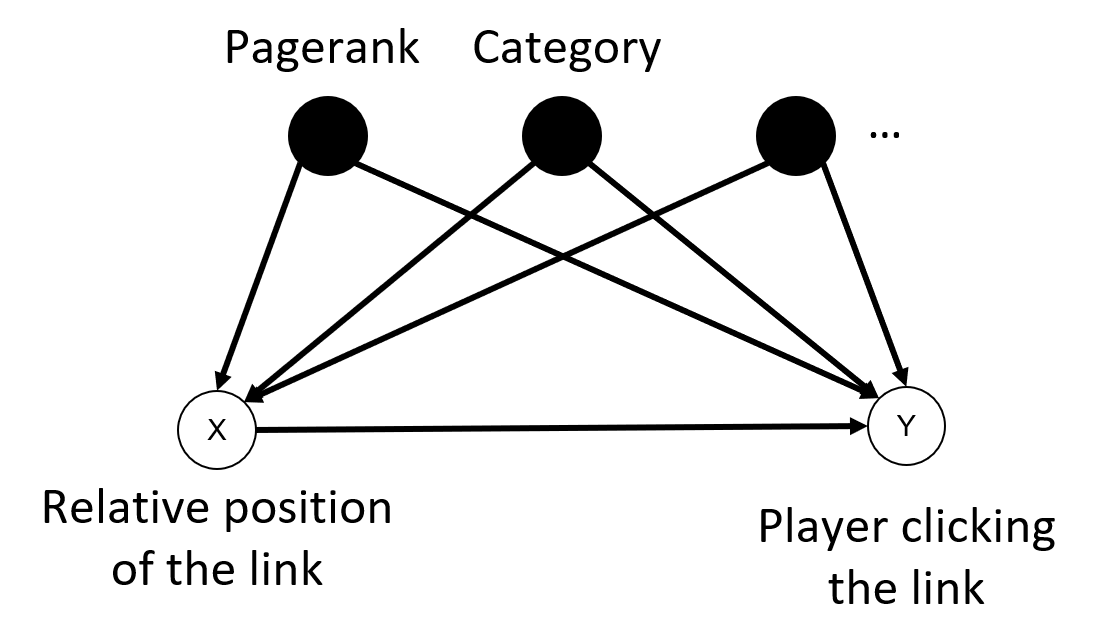
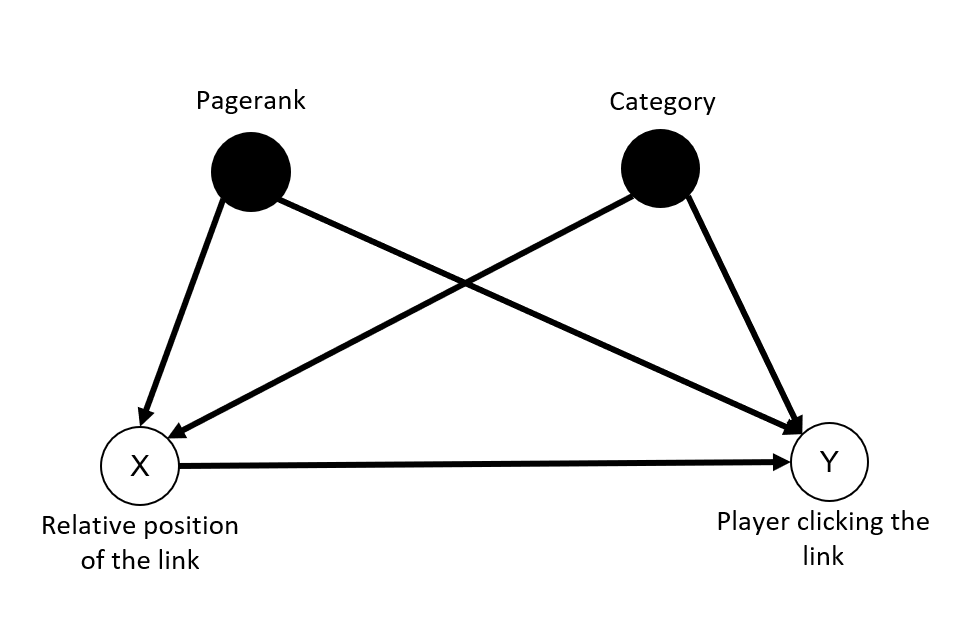
deliverablitiables

diff --git a/docs/index_2.html b/docs/index_2.html
@@ -17,12 +17,9 @@
 		<header id="header">
 			<h1>deadmaus</h1>
 			<nav>
-				<ul>
+				<!-- <ul>
 					<li><a href="#intro">Intro</a></li>
-					<li><a href="#one">Wikipedia</a></li>
-					<li><a href="#two">Wikispeedia</a></li>
-					<li><a href="#EDA">Exploratory Data Analysis</a></li>
-				</ul>
+				</ul> -->
 			</nav>
 		</header>
 
@@ -67,13 +64,16 @@
 				<header>
 					<h3>So we're done! ... right?</h3>
 					<p>
-						Unfortunately, no. There are many confounding factors that can affect the probability of a player clicking a link, and we need to account for them in order to isolate the effect of link position. In the previous page, we identified <strong>Pagerank</strong> and <strong>Category</strong> as two factors that greatly affect the link structure of Wikispeedia, but on top of these, there are many other confounding factors, like human intuition, that we cannot manually account for.
+						Unfortunately, no. We need to carefully choose a <strong>control group</strong> in order to isolate the effect of link position. Luckily, we do have a predictor for semantic similarity: <strong>Graph embeddings</strong>! Given a page and a target destination, we can use <strong>cosine similarity</strong> to calculate the page that is closest to the target destination in the embedding space. This gives us our control group.
 					</p>
-					<embed src="images/causal_diagram.png" width = 500 height = 300>
+					<embed src="images/causal_diagram.png" width = 532 height = 378>
 					<p>
-						We need to carefully choose a <strong>control</strong> in order to account for these confounders. Luckily, we do have a predictor for semantic similarity: <strong>Graph embeddings</strong>! Given a page and a target destination, we can use <strong>cosine similarity</strong> to calculate the page that is closest to the target destination in the embedding space. This link serves as a proxy for human intuition and other hidden confounders, and is suitable as a control pair for our observational experiment. 
+						There are confounding factors that can affect the probability of a player clicking a link, and we need to account for them in order to isolate the effect of link position. In the previous page, we identified <strong>Pagerank</strong> and <strong>Category</strong> as two factors that greatly affect the link structure of Wikispeedia.
+						<br><br>
+						We can attenuate their effects by calculating a <strong>propensity score</strong> for each page, which is the probability that a a player will click on the page given the values of the confounding factors. Afterwards, we can match each link clicked to the link in the control group with the closest propensity score. This greatly increases the power of our statistical analysis.
+						 
 					</p>
-					
+					<embed src="images/causal_diagram_propensity.png" width = 485 height = 349>
 				</header>
 				<header>
 					<h2>Let's put it to the test!</h2>
@@ -83,74 +83,7 @@
 				</header>
 			</div>
 		</section>
-
-		<!-- <section id="" class="main style3 primary">
-			<div class="content">
-				<header>
-					<h2></h2>
-					<p></p>
-					<embed src="plots\" width = 750 height = 437>
-				</header>
-			</div>
-		</section> -->
-
-		<!-- Graphs -->
-		<!-- <section id="Graphs" class="main style3 primary">
-			<div class="content">
-				<header>
-					<h2>Graphs</h2>
-					<p>Here are some graphs. Graphs graphs graphs. I love graphs. Click on a graph for explanations.</p>
-				</header> -->
-				
-
-				<!-- Gallery  -->
-					<!-- <div class="gallery">
-						<article class="from-left">
-							<a href="images/fulls/01.jpg" class="image fit"><img src="images/fulls/01.jpg" title="Distribution of the sum of each path's page ranks" alt="" /></a>
-						</article>
-						<article class="from-right">
-							<a href="images/fulls/02.jpg" class="image fit"><img src="images/fulls/02.jpg" title="Distribution of the sum of each path's page ranks but idk the difference" alt="" /></a>
-						</article>
-						<article class="from-left">
-							<a href="images/2009_category.png" class="image fit"><img src="images/2009_category.png" title="Articles by category in 2009" alt="" /></a>
-						</article>
-						<article class="from-right">
-							<a href="images/2022_category.png" class="image fit"><img src="images/2022_category.png" title="Articles by category in 2022" alt="" /></a>
-						</article>
-						<article class="from-left">
-							<a href="images/wikispeedia_category.png" class="image fit"><img src="images/wikispeedia_category.png" title="Articles by category in Wikispeedia" alt="" /></a>
-						</article>
-						<article class="from-right">
-							<a href="images/wikispeedia_hits.png" class="image fit"><img src="images/wikispeedia_hits.png" title="ahahhahah" alt="" /></a>
-						</article>
-					</div> -->
-
-			</div>
-		</section>
-
-
-		<!-- Contact -->
-			<!-- <section id="contact" class="main style3 secondary">
-				<div class="content">
-					<header>
-						<h2>Say Hello.</h2>
-						<p>Lorem ipsum dolor sit amet et sapien sed elementum egestas dolore condimentum.</p>
-					</header>
-					<div class="box">
-						<form method="post" action="#">
-							<div class="fields">
-								<div class="field half"><input type="text" name="name" placeholder="Name" /></div>
-								<div class="field half"><input type="email" name="email" placeholder="Email" /></div>
-								<div class="field"><textarea name="message" placeholder="Message" rows="6"></textarea></div>
-							</div>
-							<ul class="actions special">
-								<li><input type="submit" value="Send Message" /></li>
-							</ul>
-						</form>
-					</div>
-				</div>
-			</section> -->
-
+		
 		<!-- Footer -->
 			<footer id="footer">
 

diff --git a/docs/index.html b/docs/index.html
@@ -131,7 +131,7 @@
 					</header>
 				</article>
 				<article class="from-right">
-					<embed src="plots/gifs/category_heatmap.gif" width="120%" height="100%">
+					<embed src="plots/gifs/category_heatmap.gif" width="130%" height="100%">
 				</article>				
 			</div>
 		</section>
@@ -220,7 +220,7 @@
 					<header>
 						<h3>Pagerank</h3>
 						<p>
-							We also noticed that in 2020, the page <i>David Heymann</i> exploded in Pagerank, with a 65% increase in percentile in one year. This can be attributed to the COVID-19 pandemic, as he was the director of the WHO's Health Emergencies Programme. This represents a real increase in the importance of his page. TODO: NOT TRUE BUT OKAY
+							We also noticed that in 2020, the page <i>David Heymann</i> exploded in Pagerank, with a 65% increase in percentile in one year. This can be attributed to the COVID-19 pandemic, as he was the director of the WHO's Health Emergencies Programme. This represents a real increase in the importance of his page. NOTE: THIS IS NOT TRUE 100% FAKE NEWS
 						</p>
 					</header>
 				</article>

diff --git a/README.md b/README.md
@@ -1,21 +1,19 @@
 # Wikipedia Link Structure - Is it Developed in An Intuitive Way?
 
 ## Abstract
-The purpose of this data analysis is to investigate the link structure of Wikipedia and analyse if and how well it corresponds to human intuition. From there, we are going to explore if Wikipedia, when developing the content of their pages, take this into consideration. This will be done in two parts. (1) Comparing the graph of the link structure of Wikipedia 2009 to a graph of how humans navigate the link structure of Wikipedia. The second graph is constructed from recorded games of Wikispeedia, a game where the task is to navigate from one page to another using only the links on each page respectively. (2) In the second part we compare the first graph from part one to a graph constructed of the same Wikipedia pages from 2022. Thus, we can compare the development of the pages over time. Depending on the answer to part 1, we will analyse if the link structure has improved or decayed in relation to how humans navigate Wikipedia. The dataset represents a subset of all wikipedia pages. For both time periods the same subset of Wikipedia pages will be analysed.
+The purpose of this data analysis is to investigate the link structure of Wikipedia and analyse if and how well it corresponds to human intuition. From there, we are going to explore if Wikipedia, when developing the content of their pages, take this into consideration. This will be done in two parts. (1) Comparing the graph of the link structure of Wikipedia 2007 to a graph of how humans navigate the link structure of Wikipedia. The second graph is constructed from recorded games of Wikispeedia, a game where the task is to navigate from one page to another using only the links on each page respectively. (2) In the second part we compare the first graph from part one to a graph constructed of the same Wikipedia pages from 2022. Thus, we can compare the development of the pages over time. Depending on the answer to part 1, we will analyse if the link structure has improved or decayed in relation to how humans navigate Wikipedia. The dataset represents a subset of all wikipedia pages. For both time periods the same subset of Wikipedia pages will be analysed.
 
 ## Research Questions
-1. How well did the link structure of Wikipedia follow human intuition in 2009?
-1. How has the Wikipedia link structure evolved between 2009 and 2022?
-1. Does link position effect the chances a player clicks on it?
+1. How has the Wikipedia link structure evolved between 2007 and 2022?
+1. Are players biased towards links higher up on the page?
 
 ## Additional datasets
-In addition to the Wikispeedia dataset, we have scraped the same subset of pages of Wikipedia (from 2009 - 2022) as are present in the wikispeedia dataset.
+In addition to the Wikispeedia dataset, we have scraped the same subset of pages of Wikipedia (from 2007 - 2022) as are present in the wikispeedia dataset.
 
 Processing the new version of the circa 4600 pages included:
 * Scraping the complete content of the pages with html tags
 * Indetifying outgoing links of each page and creating a dataset with an origin column (representing the page of which the links are extracted) and a destination column (representing the links found on that page)
-* Data size is expected to be of the same order of magnetude as the 2009 dataset, which was ~3 MB, if we choose to only work with the links
-
+* Data size is expected to be of the same order of magnetude as the 2007 dataset, which was ~3 MB, if we choose to only work with the links
 
 ## Methods
 To acomplish these goals, we intend to use the methods described below.
@@ -26,36 +24,28 @@ Node2Vec is used to embed the nodes of the graph as vectors. With these embeddin
 **UMAP**
 Uniform Manifold Approximation and Projection (UMAP) we are able to take the high-dimensional embeddings generated by node2vec and project them into 3D. Given these projections a qualitive comparison can be made between graphs according to for example what categories cluster together on the local/global scale. 
 
-<img src="images/2009_category.png" width="400"> <img src="images/2022_category.png" width="400"> <img src="images/wikispeedia_category.png" width="400">
+<img src="images/2007_category.png" width="400"> <img src="images/2022_category.png" width="400"> <img src="images/wikispeedia_category.png" width="400">
 
 3D versions can be found in our <a href="https://epfl-ada.github.io/ada-2022-project-deadmaus/#What%20does%20our%20data%20look%20like?">data story</a>.
 
+**How to characterise the evolution of Wikipedia's link structure**
+We characterised Wikipedia primarily throught two perspectives: Pagerank and Categories.
+
+A heatmap where the categories are represented on both the X and Y axis was created. In the intersection of the table of category A and category B, we find the number of outgoing links from A to B. Similarly, in the intersection of B and A, we find the number of outgoing links from category B to A. The argument favouring the former approach is the intuition of relevance. If category A is relevant to category B then category B should be equally relevant to category A.
+<img src="docs/plots/gifs/category_heatmap.gif">
+
+The pagerank of each page in Wikipedia 2007 - 2022 was calculated. They were then compared to the pagerank of the graph generated by the Wikispeedia paths.
+<img src="docs/plots/gifs/page_rank_ridge.gif">
+
+
 **How to determine the whether link position effects the player clicking on the link**
 We propose the following causal diagram:
-<img src="images/causal_diagram.png" width="400">
+<img src="docs/images/causal_diagram_propensity.png">
+We can control for the effects of Pagerank and Category by using a propensity score. We selected a total of 16 confounders: Pagerank, and a binary (0 or 1) value for each of the 15 categories. We then used logistic regression to obtain a propensity score for every page. 
 
-We propose a two step methodology to answer the RQs and determine relevance of the links. The first step is to find the centroid of each category in their 128 dimensional embedding space. We then measure the cosine similarity between the centroids. From this we will receive an appreciation for the similarity between the different categories. We hypothesize that subjects with a higher similarity score are more relevant to each other than two that are distant. An alternative approach to measuring the distance between the centroids is to use a heatmap where the categories are represented on both the X and Y axis. In the intersection of the table of category A and category B, we find the number of outgoing links from A to B. Similarly, in the intersection of B and A, we find the number of outgoing links from category B to A. The argument favouring the former approach is the intuition of relevance. If category A is relevnant to category B then category B should be equally relevant to category A.
+However, confounders like human intuition is harder to manually control for. Hence, we will use data from the graph embeddings to do matching. For every (page, destination) pair, we calculate which link on that page has the highest cosine similarity to the destination page. That link will be used as a control pair to the link that the player actually clicked on. This underlying embeding sources from  Wikipdia editors in 2007, which will control for human intuition of that time and other unknown confounding factors. 
 
-The second step is to observe the link structure over the two periods and evaluate wether or not it has chagned. In order to do that we construct bipartite graphs where on one side all the articles are listed and on the other side the 16 categories are listed. Edges are drawn between each article and each category with weights representing the number of outgoing links from the article to each category. One such bipartite graph will be constructed for each period (2009 and 2022). When observing differences and similarities of the two graphs we will be able to interpret how changes have occurred over time. One scenario could be that an article `A` had in 2009 an edge weight 10 to category 1:10. In 2022 the edge weights have changed to 0 for category 1:5 while increasing their values to 15 for categories 6:10. Seeing this, we can observe how the categories are related to each other through comparing their similarity scores. Hopefully what we will find is that more links have been added to relevant categories and links have been deleted to irrelevant categories. 
-
-
-## Proposed timeline
-A high level timeline follows below. 
-
-**End of week 49**
-Detailed investigation of the data
-- All fundamental statistics and visualisations are developed.
-- At this point, the investigation is at a point where we understand what parts are interesting to look further into. 
-
-**End of week 50**
-Data story in progress
-- High level outline of descrition of data story.
-- Plots and descriptive statistics fully prepared.
-
-**End of week 51**
-Datastory completed 
-- Write the full description of the story.
-- Double check every task and make sure plots have all requiered attributes for effective visualisation. 
+With these methods, we would be able to isolate the effect that link position has on the player clicking the link. For the purposes of statistical hypothesis testing, a paired t-test was chosen.
 
 ## Tasks of individual team members
 * Amey: Quantitative and qualitative graph analysis, data scraping
